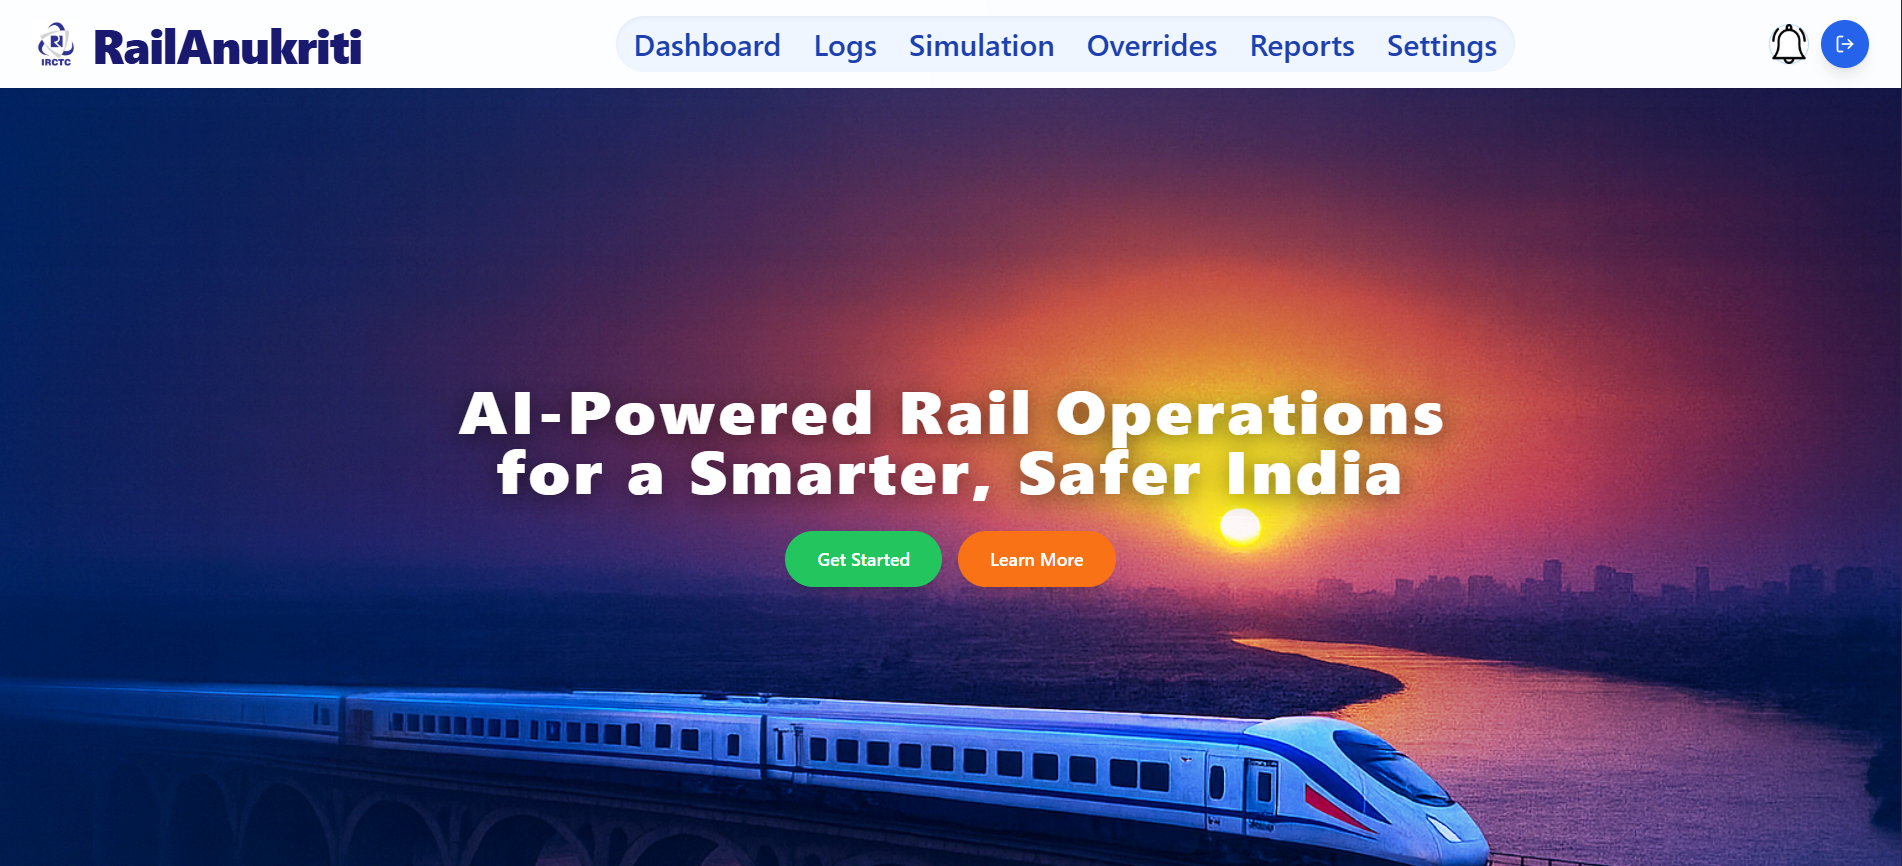
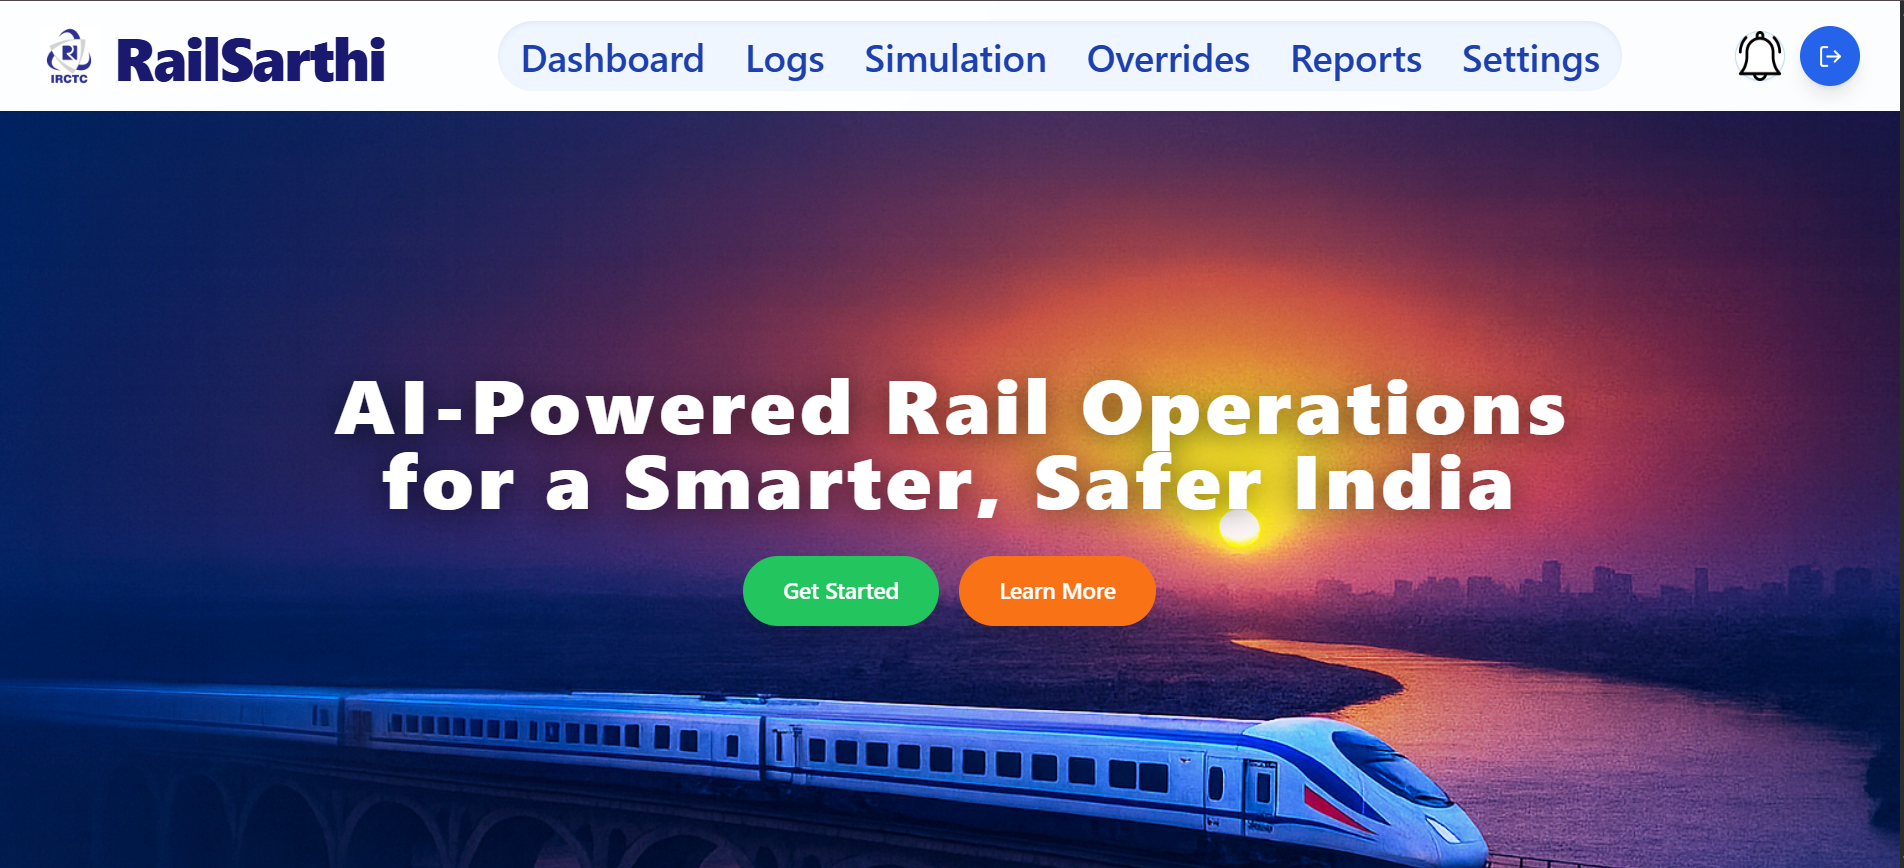
Update Rail Sarthi assets

diff --git a/src/components/Projects.js b/src/components/Projects.js
@@ -11,7 +11,7 @@ const Projects = () => {
 
   const projects = [
     {
-      title: '🚆 Rail Sarthi',
+      title: '🚆 RailSarthi',
       description: 'AI-powered train traffic optimization system for Indian Railways. Uses reinforcement learning and constraint optimization to schedule trains, manage crossings, and allocate platforms in real-time. Includes explainable AI insights, digital twin simulation, and human-in-the-loop overrides.',
       technologies: ['React', 'FastAPI', 'Python', 'OR-Tools', 'PyTorch', 'Graph Neural Networks'],
       keyFeatures: [
@@ -21,7 +21,7 @@ const Projects = () => {
         'Live dashboard with analytics'
       ],
       liveLink: 'https://rail-sarthii-7u8e.vercel.app/',
-      githubLink: 'https://github.com/sonamnimje/RailAnukriti',
+      githubLink: 'https://github.com/sonamnimje/RailSarthi',
       icon: 'fas fa-train',
       image: '/images/railanukriti-preview.png'
     },
